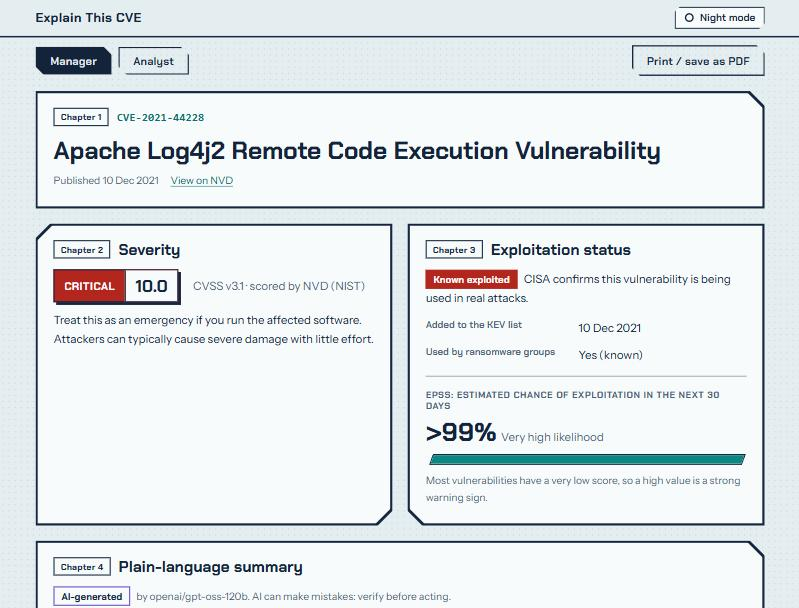
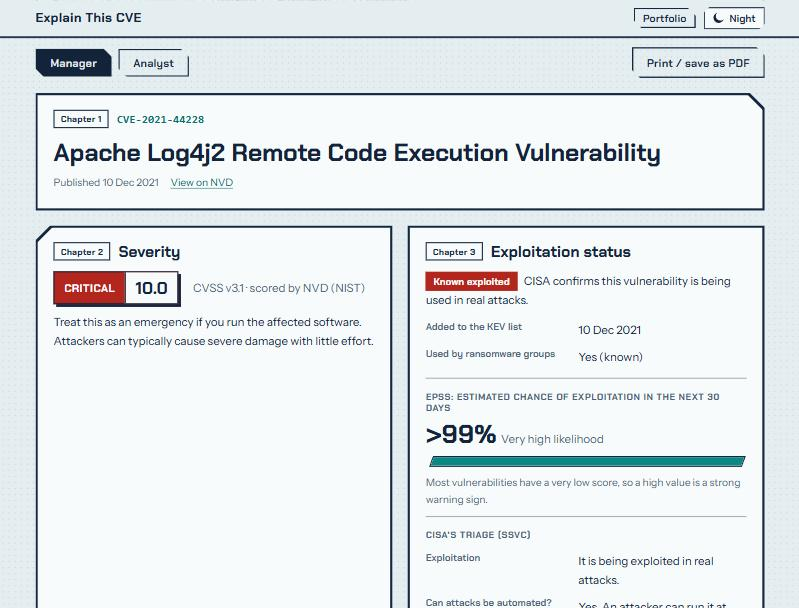
README: bring up to date with the saved-copy and SSVC behaviour
- mention the saved copy when NVD is down, and that saved copies are per instance too
- add the SSVC coverage limitation
- new screenshot (Portfolio button, day/night toggle, SSVC block)

diff --git a/README.md b/README.md
@@ -43,7 +43,7 @@ Every brief says "Always verify with the official vendor advisory."
                                   +--------------------------------+
 ```
 
-NVD is required. If CISA, EPSS or the AI model fails, the page still works and says what is missing. "Could not check CISA's list" is shown as unknown, never as "not exploited". The study guide [docs/HOW-IT-WORKS.md](docs/HOW-IT-WORKS.md) walks through every file and the full request flow.
+NVD is required. If NVD is down, the page shows the last good answer for that CVE as a labelled saved copy when one exists, and an error when it does not. If CISA, EPSS or the AI model fails, the page still works and says what is missing. "Could not check CISA's list" is shown as unknown, never as "not exploited". The study guide [docs/HOW-IT-WORKS.md](docs/HOW-IT-WORKS.md) walks through every file and the full request flow.
 
 ## Security
 
@@ -68,13 +68,14 @@ The data comes from public databases, but anyone can influence some of it, and a
 
 **Known limitations:**
 
-- The cache and the rate limiter live in the memory of one function instance. Vercel creates and recycles instances, and `vercel dev` reloads the function on every request. They are best-effort, and the Vercel firewall rule is the limit to rely on.
+- The cache, the saved copies and the rate limiter live in the memory of one function instance. Vercel creates and recycles instances, and `vercel dev` reloads the function on every request. They are best-effort: a saved copy may not exist when NVD fails, and the Vercel firewall rule is the limit to rely on.
 - The per-IP limit trusts the `x-real-ip` header, which is only trustworthy behind Vercel.
 - NVD's quota is shared by all visitors. Several clients together can use it up, and the page then shows a "busy" message.
 - Groq's free tier allowed about 8,000 tokens a minute for this model in October 2026. A burst of new lookups falls back to the template summary.
 - A persuaded AI model can still write a misleading sentence that has no link, version or domain in it. The checks cannot catch an opinion, which is why severity, KEV and EPSS are shown separately from structured data.
 - NVD data is sometimes late or incomplete, and the product list is grouped and ordered by a heuristic, so it can include third-party products that embed the affected library.
 - KEV lists confirmed exploitation only, and EPSS is a probability, not a verdict.
+- CISA's triage answers (SSVC) exist only for CVEs that CISA has assessed. When they are missing, the page says so. I show the three answers and not CISA's final decision, because that decision depends on facts about your own organisation.
 - Trusted Types is enforced in Chromium browsers. I tested one Chromium browser, in both themes, at desktop and phone widths. I did not test Safari or Firefox.
 
 ## Run it
